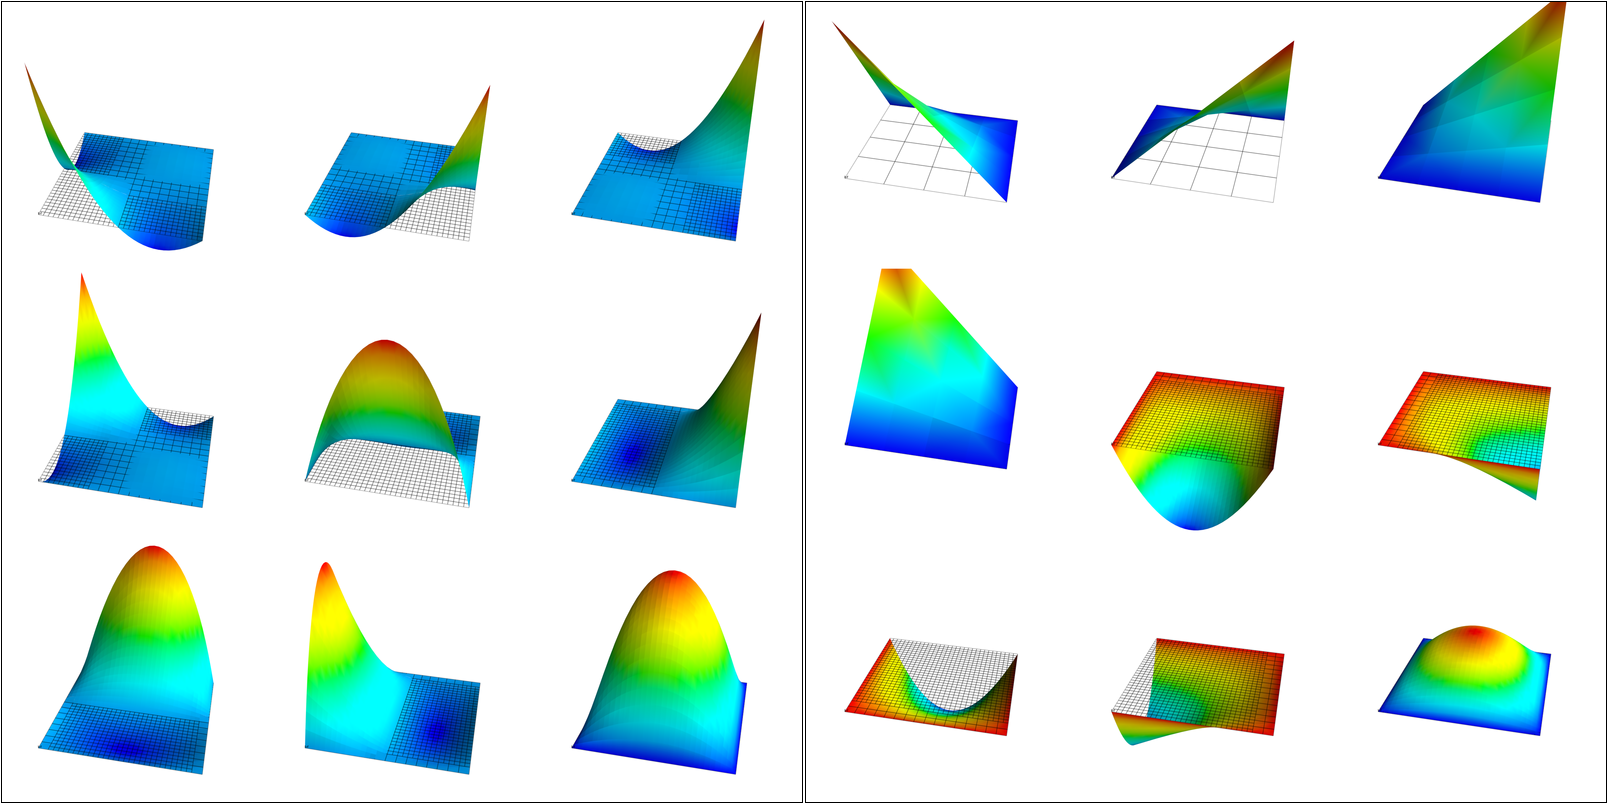
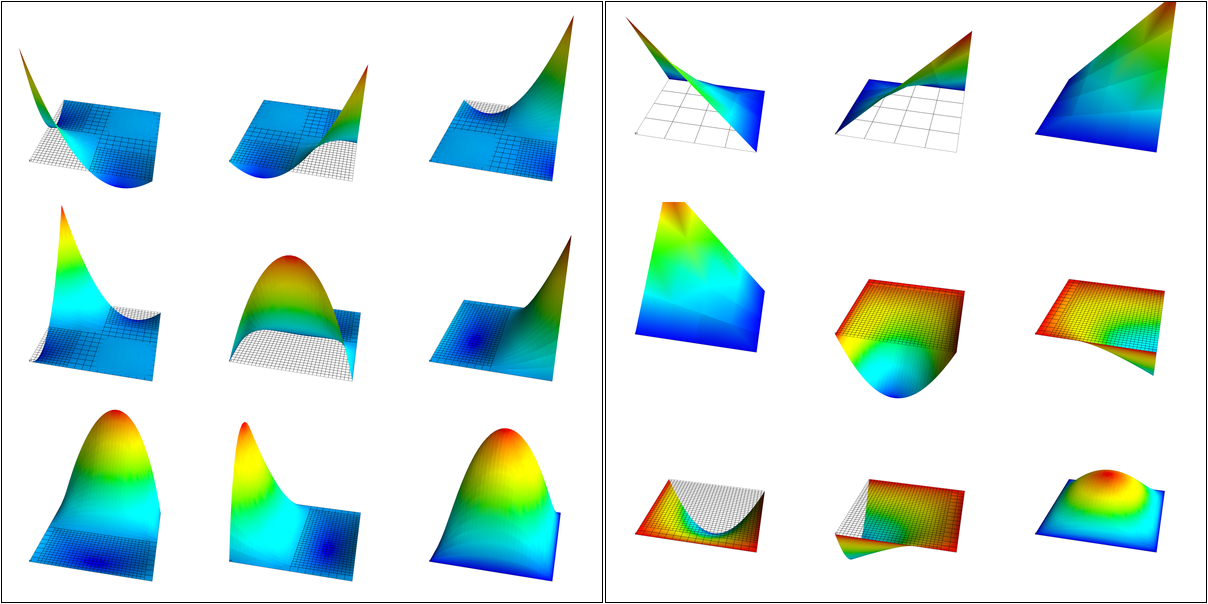
decrease resolution of basis images for smaller output size

diff --git a/papers/robert_cimrman/robert_cimrman.rst b/papers/robert_cimrman/robert_cimrman.rst
@@ -402,7 +402,7 @@ and Lobatto (hierarchical) basis can be used on quadrilaterals, see Figure
 :ref:`fe-bases`.
 
 .. figure:: fe-bases.png
-   :scale: 30%
+   :scale: 40%
    :figclass: w
 
    Bi-quadratic basis functions on the reference quadrilateral: left: Lagrange
@@ -465,7 +465,7 @@ uniquely determined by the knot vector for each axis, and cover the whole
 patch, see Figure :ref:`ig-base`.
 
 .. figure:: ig-base.png
-   :scale: 12%
+   :scale: 24%
    :figclass: w
 
    The degree 2 NURBS basis functions on the single patch
